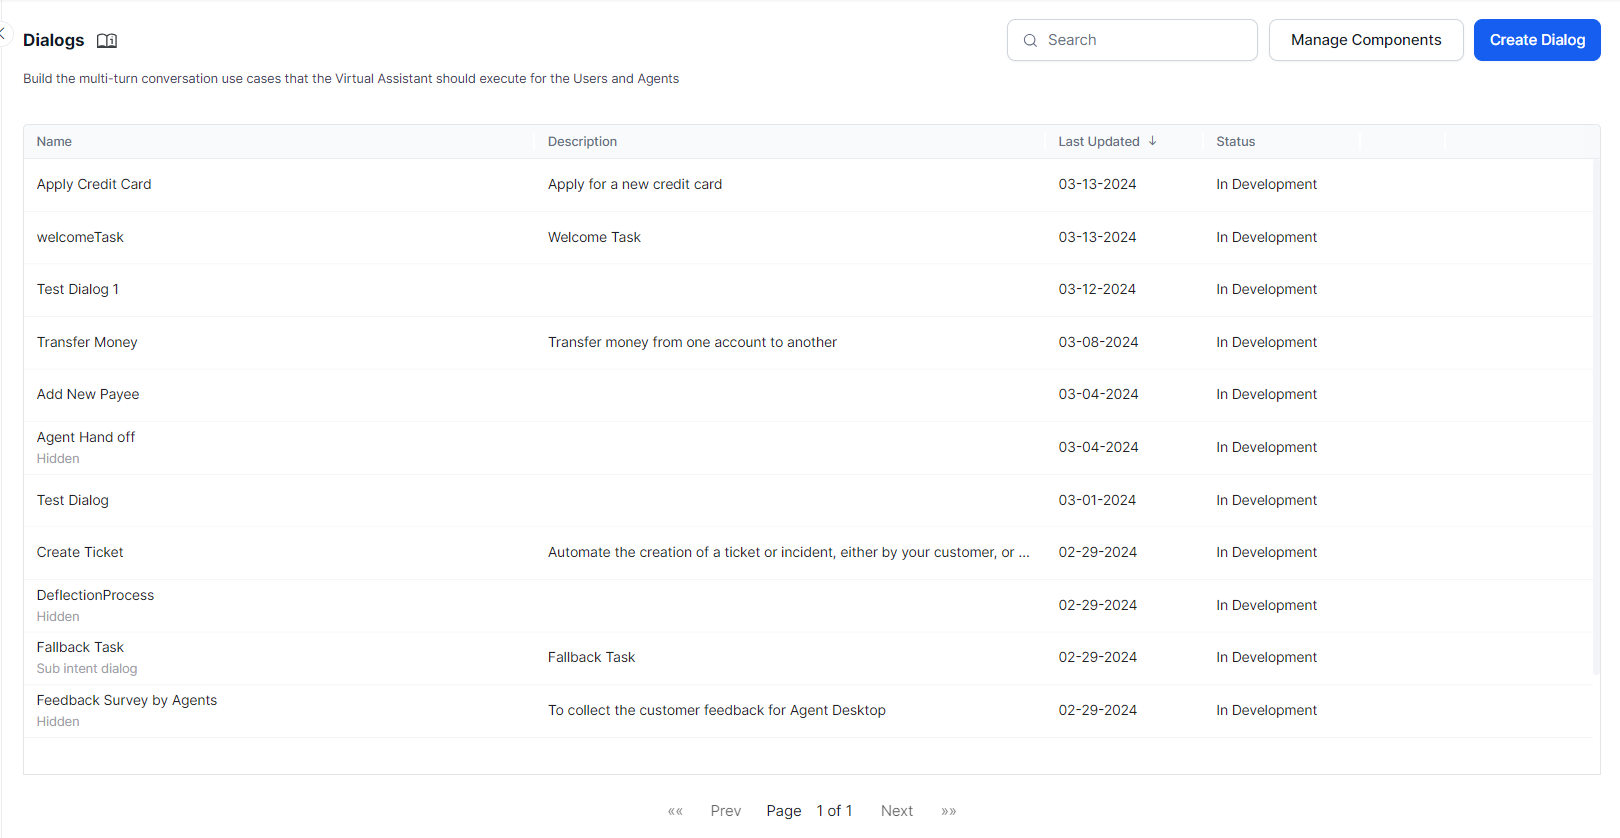
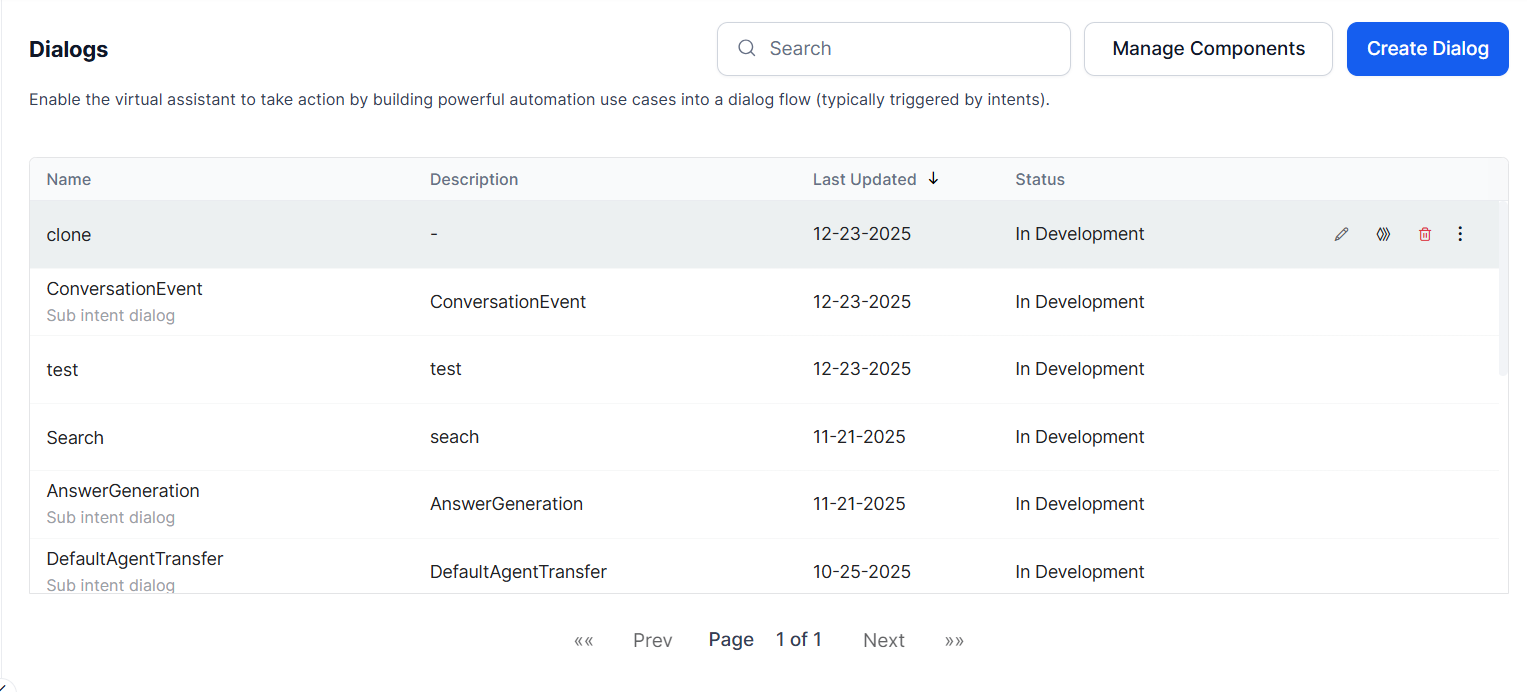
updates

diff --git a/docs/xo/automation/use-cases/dialogs/navigating-dialog-tasks.md b/docs/xo/automation/use-cases/dialogs/navigating-dialog-tasks.md
@@ -1,22 +1,16 @@
 # Navigating Dialog Tasks
 
 
-## Prerequisites
-
-[How to Access the Platform?](../../../getting-started/accessing-the-platform.md){:target="_blank"}
-
-## Introduction
-
-This article takes you through the major features you can access via the Dialog Builder.
 
 The Dialog Builder is a key component of the Platform, and you can use it to develop full conversations between your AI Agent and your users – from design to development, training, and testing.
 
-The Dialog Builder Provides Conversation, Logic, and NLP-based tools and multiple opportunities to develop your conversational AI Agent. You can Design, Build, and Train from within a familiar interface, which improves development efficiency and enhances results.
+The Dialog Builder Provides Conversation, Logic, and multiple opportunities to develop your conversational AI Agent. You can Design, Build, and Train from within a familiar interface, which improves development efficiency and enhances results.
 
+To access dialog tasks, go to **Automation > Dialogs**.
 
 ## Benefits
 
-The purpose of the Dialog Builder is to combine human interaction and business logic, enabling your organization to collaboratively implement standards, processes, and practices into valuable AI AgentS.
+The purpose of the Dialog Builder is to combine human interaction and business logic, enabling your organization to collaboratively implement standards, processes, and practices into valuable AI Agents.
 
 Here are a few other ways in which the Dialog Builder can benefit your organization:
 
@@ -24,130 +18,37 @@ Here are a few other ways in which the Dialog Builder can benefit your organizat
 * Facilitates the application of business processes to Conversational AI Agent Development.
 * Encourages innovation through clear, collaborative processes to Design, Build and Train AI-powered Conversational AI Agents.
 
+## Dialogs Page Overview
+
+The Dialog page lists existing dialog tasks and shows key details for each task, including name, description, last updated date, and status.
+
+When you hover over a dialog task, you can select Edit, Clone, or Delete. From [More options](using-the-dialog-builder-tool.md#the-more-options-menu), you can view the dialog task, configure dialog settings, manage interruptions, or amend behavior.
+
+[Manage Components](managing-dialogs.md) lets you access the Dialog Components section, where you manage entities, webhooks, messages, agent transfers, and other components used across all dialog tasks in the AI agent.
+
+[Create Dialog](using-the-dialog-builder-tool.md) lets you create a new dialog task.
+
+<img src="../images/navigate-dialog-landing.png" alt="Dialog task landing page" title="Dialog task landing page" style="border:1px solid gray; zoom:60%;">
 
 
-
-
-## The Dialog Tasks List
-
-The first page is a list of existing Dialog Tasks. Now, let us review the features you can access on this page.
-
-* **See basic information about each dialog task** at a glance. This includes the task name, description, last update date, and status.
-
-    <img src="../images/navigate-dialog-landing.png" alt="Dialog task landing page" title="Dialog task landing page" style="border:1px solid gray; zoom:60%;">
+**Legacy Dialog Tasks**
     
-    !!! Note
-    
-        If a Dialog Task has been created using the legacy builder, then you will have the option to upgrade to the new, Conversation-Driven builder. In your list, such tasks come with an upgrade icon (an upward arrow inside a gear symbol).
+If a dialog task was created using the legacy builder, you can upgrade it to the conversation-driven builder. These tasks display an upgrade icon, shown as an upward arrow inside a gear symbol.
 
-* **Dialog Task Options** – When hovering over a task, you will see options to **Edit**, **Clone** or **Delete** the selected task. There is also a menu with **More Options**, where you can View the task, configure Dialog Settings, Manage Interruptions, or Amend Behavior.
+**Cloned Dialog Task Properties**
 
-    <img src="../images/navigate-dialog-img2-dialog-task-options.png" alt="Dialog task options" title="Dialog task options" style="border:1px solid gray; zoom:60%;">
+A cloned dialog task copies components, instances, NL, IVR, connection properties, dialog settings, interruption settings, amend behavior, and all enabled language details from the original dialog task. It does not copy intent-level NLP training data, including machine learning utterances, intent patterns and rules, or intent synonyms.
 
-* **Search Dialog Tasks** – If you are looking for a specific task, you can type its name here.
-* **Manage Components**—Use this button to reach the Dialog Components section, where you can manage entities, webhooks, messages, agent transfers, etc., that are in use within all Dialog Tasks within your AI Agent.
-* **Create a new Dialog Task** – Use this button to create a new Dialog Task.
-* **Test**—This is where you can easily test your AI Agent by simulating an interaction between a user and the AI Agent.
+## Dialog Builder Components
+
+To learn more about the components available on the Dialog Builder Panel, click [here](using-the-dialog-builder-tool.md#dialog-task-builder-overview){target="_blank"}.
 
 
-## Dialog Task Options
-
-### Edit
-
-Clicking the **Edit** (<img src="../images/navigate-dialog-builder-edit.png">) corresponding to a dialog task opens the [Dialog Builder](../dialogs/navigating-dialog-tasks.md) canvas, where you can design the dialog task based on the conversation logic and business requirements. You can add and configure various components and features to build the end-to-end conversation flow.
-
-### Clone
-
-In some scenarios, you may need to create two similar dialog tasks with minor differences. To achieve this, clone dialog tasks using the corresponding **Clone** (<img src="../images/navigate-dialog-builder-clone.png">) option on the Dialog Tasks list.
-
-To clone a dialog task, follow the below steps:
-
-* **Open the App** in which you want to clone the dialog task.
-* Select the **Automation AI** option from the left menu.
-
-    <img src="../images/automationai-va-navigation.gif" alt="Navigate to Virtual Assistant" title="Navigate to Virtual Assistant" style="border:1px solid gray; zoom:60%;">
-    
-* From the left menu, click **USE CASES > Dialogs**.
-* On the Dialog Tasks page, hover over the dialog you want to clone and click the **Clone** icon.
-* On the **Clone a Dialog** window, enter a name in the **Intent Name** field.
-* Optionally, you can add a **Description**.
-* You can choose whether the cloned dialog will be available to the end customer **(Customer Use Case)** and/or in Agent Assist **(AgentAssist Use Case)**.
-* Under **Intent Settings**, set options for the task to be independent, a **Sub-intent dialog** or **Hide it from Help.**
-* Under **Analytics - Containment type**, you can choose between **Abandonment as Self Service** and **Abandonment as Drop Off**.
-* Also, optionally, you can adjust **Conversation Context**, set **Intent Preconditions**, or define **Context Output**.
-* Click **Proceed**.  
-  
-    <img src="../images/clone-dialog-options.png" alt="Clone Dialog - Options" title="Clone Dialog - Options" style="border:1px solid gray; zoom:60%;">
 
 
-#### Cloned Task Properties
-
-The following are the properties of a cloned dialog task:
-
-* It contains the same components, instances, NL, IVR, and connection properties as the original dialog task.
-* The Dialog Settings, Interruption Settings, and Amend Behavior are also copied from the original dialog.
-* If multiple languages are enabled in the original dialog, then the details for all languages are copied.
-
-The below-listed intent-level NLP training data is not copied:
-
-* Machine Learning Utterances.
-* Intent Patterns & Rules.
-* Intent Synonyms.
 
 
-### Delete
-
-If you no longer require a specific Dialog Task, you can remove it.
-
-!!! Warning
-
-    Deleted Tasks cannot be restored.
 
 
-To delete a Dialog Task:
-
-1. Hover over the task in the Dialog Tasks List.
-2. Click the **Delete** (<img src="../images/navigate-dialog-builder-delete.png">) icon. 
-3. If you are sure that you want to delete this task, then please click **Delete** in the confirmation window. Otherwise, please click **Cancel**.  
-  
-    <img src="../images/delete-dialog-confirmation.png" alt="Delete Dialog - Confirmation" title="Delete Dialog - Confirmation" style="border:1px solid gray; zoom:60%;">
 
 
-### More Options
-
-You can access more Dialog Task options like **Display, Dialog Settings, Manage Interruptions,** and **Manage Amend Behavior** by clicking the 3-dot **More Options** (<img src="../images/navigate-dialog-builder-more-options.png">) icon.
-
-<img src="../images/navigate-dialog-builder-more-options-menu.png" alt="More Options" title="More Options" style="border:1px solid gray; zoom:70%;">
-
-Please see the articles linked below for information on:
-
-* [Dialog Settings](using-the-dialog-builder-tool.md#dialog-settings){:target="_blank"},
-* [Manage Interruptions](../../intelligence/conversation-management/manage-interruptions.md){:target="_blank"},
-* [Manage Amend Behavior.](../../natural-language/nlu-configurations/amend-entities.md){:target="_blank"}
-
-
-## Dialog Builder - Conversation Design and Logic Building
-
-The Dialog Builder is where you can design, build, train, and test the conversations that your AI Agent can have with your users.
-
-You can access them by creating a new Dialog Task or opening an existing one
-
-!!! Note
-
-    This guide applies to the new Dialog Builder. If your tasks are using the previous version, please consider upgrading.
-
-You can build Dialogs by adding and configuring [nodes](node-types/nodes-transitions.md){:target="_blank"} in the required sequence as per business logic in the Dialog Builder.
-
-The Dialog Builder interface consists of:
-
-1. [Tool Set](using-the-dialog-builder-tool.md#the-tool-set)
-2. [Index Panel](using-the-dialog-builder-tool.md#the-index-panel)
-3. Node Panel
-4. [Canvas](using-the-dialog-builder-tool.md#the-canvas)
-
- <img src="../images/navigate-dialog-builder.png" alt="Dialog builder" title="Dialog builder" style="border:1px solid gray;zoom:70%;">
-
-
-**Related Links**
-
-* [Using the Dialog Builder](using-the-dialog-builder-tool.md){:target="_blank"}

diff --git a/docs/xo/automation/use-cases/dialogs/using-the-dialog-builder-tool.md b/docs/xo/automation/use-cases/dialogs/using-the-dialog-builder-tool.md
@@ -168,7 +168,14 @@ The dialog task is created and opens in the Dialog Builder. You can make require
 
 ## Dialog Task Builder Overview
 
-Before moving on, here is an overview of the Dialog Task Builder. For details on navigating dialog tasks, please see [Navigating the Dialog Task Builder](./navigating-dialog-tasks.md){:target="_blank"}.
+
+The Dialog Builder is where you can design, build, train, and test the conversations that your AI Agent can have with your users. You can access them by creating a new Dialog Task or opening an existing one. You can build Dialogs by adding and configuring [nodes](node-types/nodes-transitions.md){:target="_blank"} in the required sequence as per business logic in the Dialog Builder.
+
+!!! Note
+
+    This guide applies to the new Dialog Builder. If your tasks are using the previous version, please consider upgrading.
+
+
 
 <img src="../images/navigate-dialog-builder.png" alt="Dialog builder" title="Dialog builder" style="border:1px solid gray;zoom:70%;">
 
